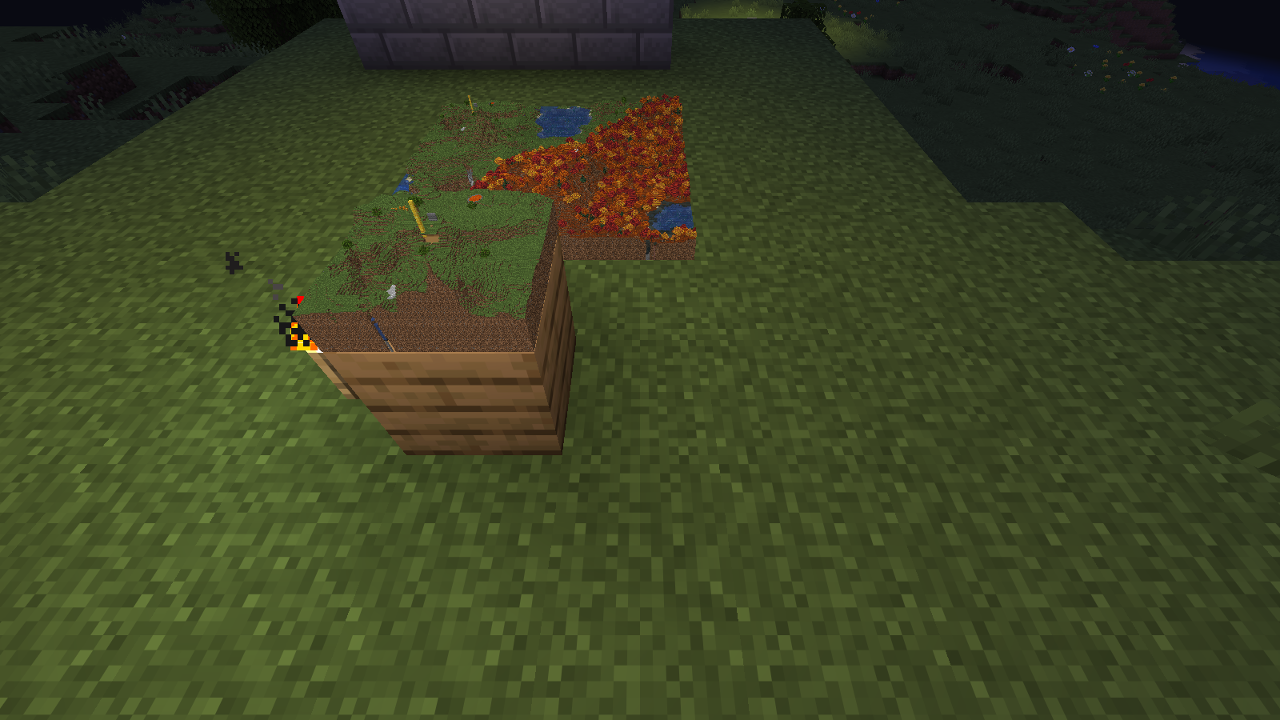
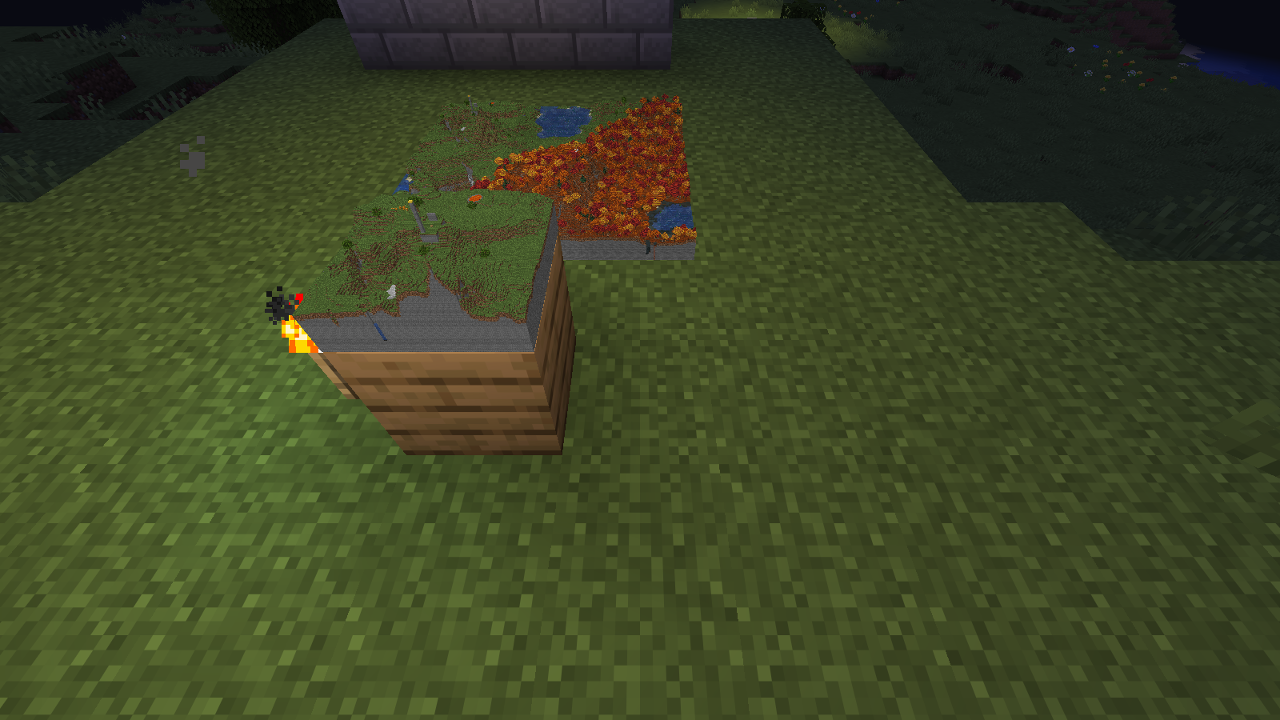
chore: release 0.2.1

diff --git a/CHANGELOG.md b/CHANGELOG.md
@@ -1,5 +1,13 @@
 # Changelog
 
+## 0.2.1
+
+- Below the ground, dioramas now show a few layers of the real soil (dirt, sand, gravel) and then stone, netherrack
+  or end stone, like the world itself. Before, the last block was repeated down to the base, so hills looked like
+  tall blocks of dirt.
+- Fixed holes in dioramas where the ground has air right below it: a house floor on a slope, sand over a cave. You
+  could see through them to the flat map underneath.
+
 ## 0.2.0
 
 - Fixed fog on dioramas: the edges of every map faded into the sky color, and maps placed side by side showed a pale
